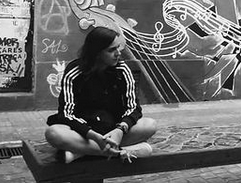
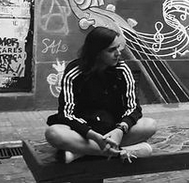
:up: img

diff --git a/index.html b/index.html
@@ -95,7 +95,7 @@ i will love work with you!                                            -->
                         <div class="container bio">
                             <div class="image-container">
                                 <figure class="figure"> 
-                                    <img class="img-thumbnail rounded-circle " src="assets/images/1.jpg"/>
+                                    <img class="img-thumbnail rounded-circle " src="assets/images/1.png"/>
                                 </figure>
                             </div>
 
